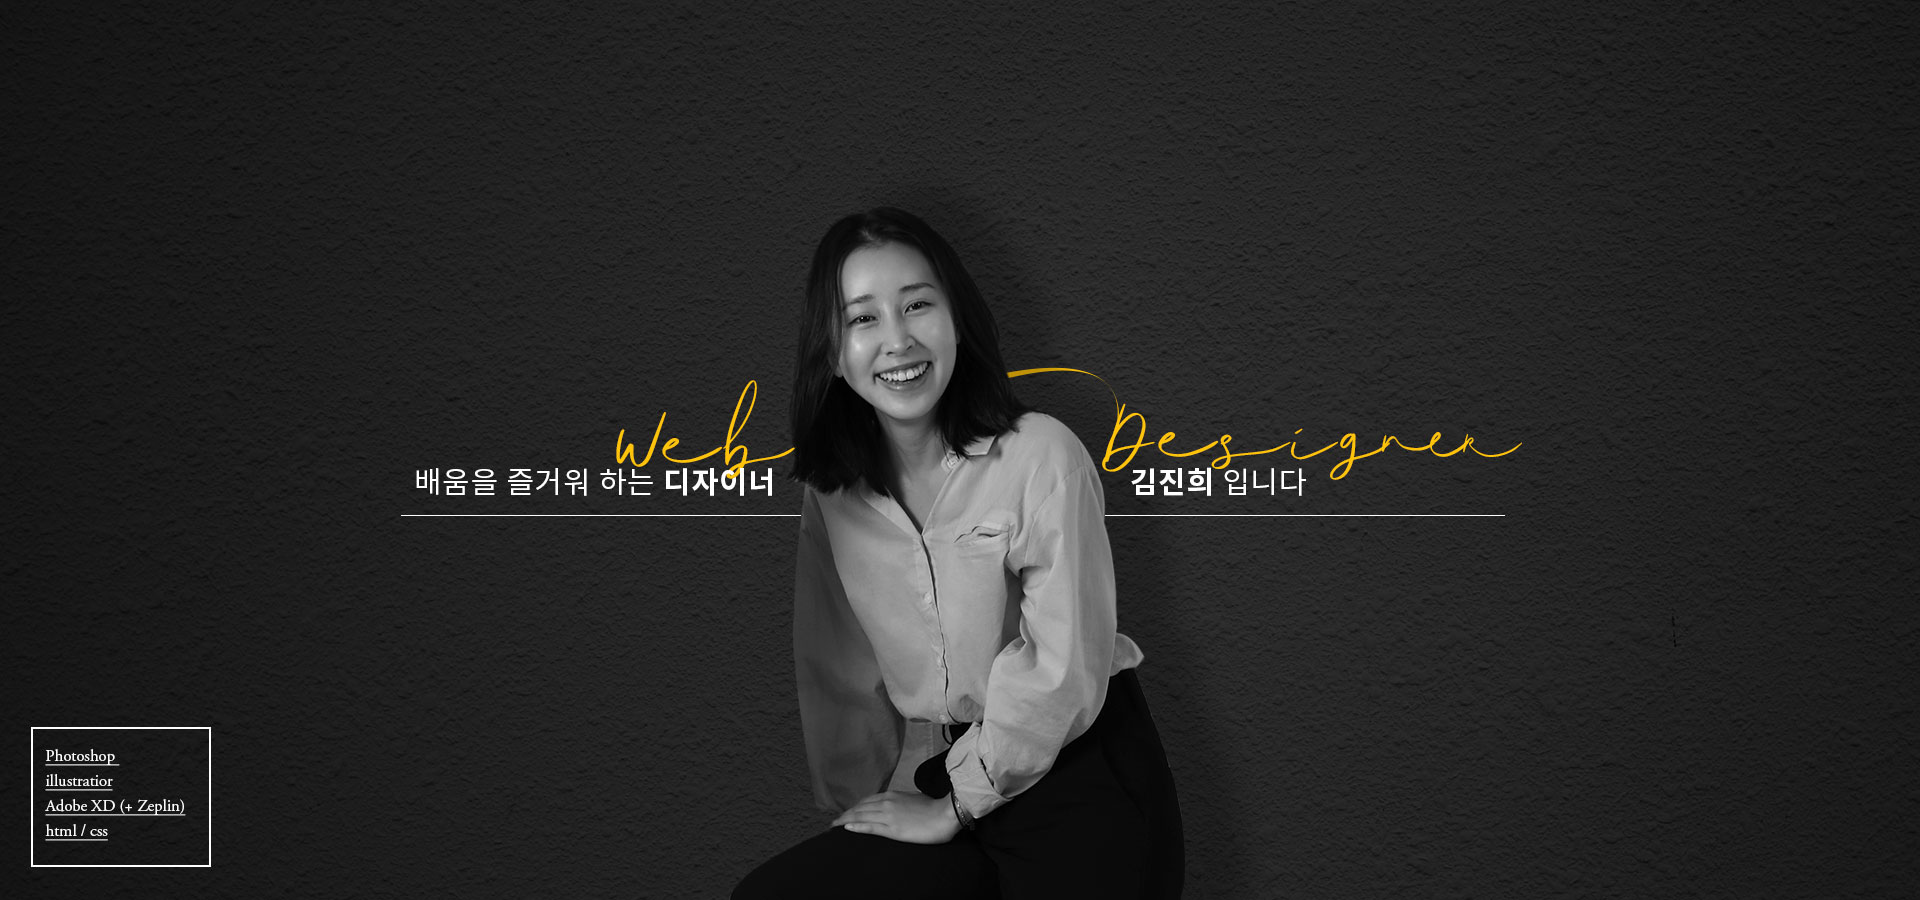
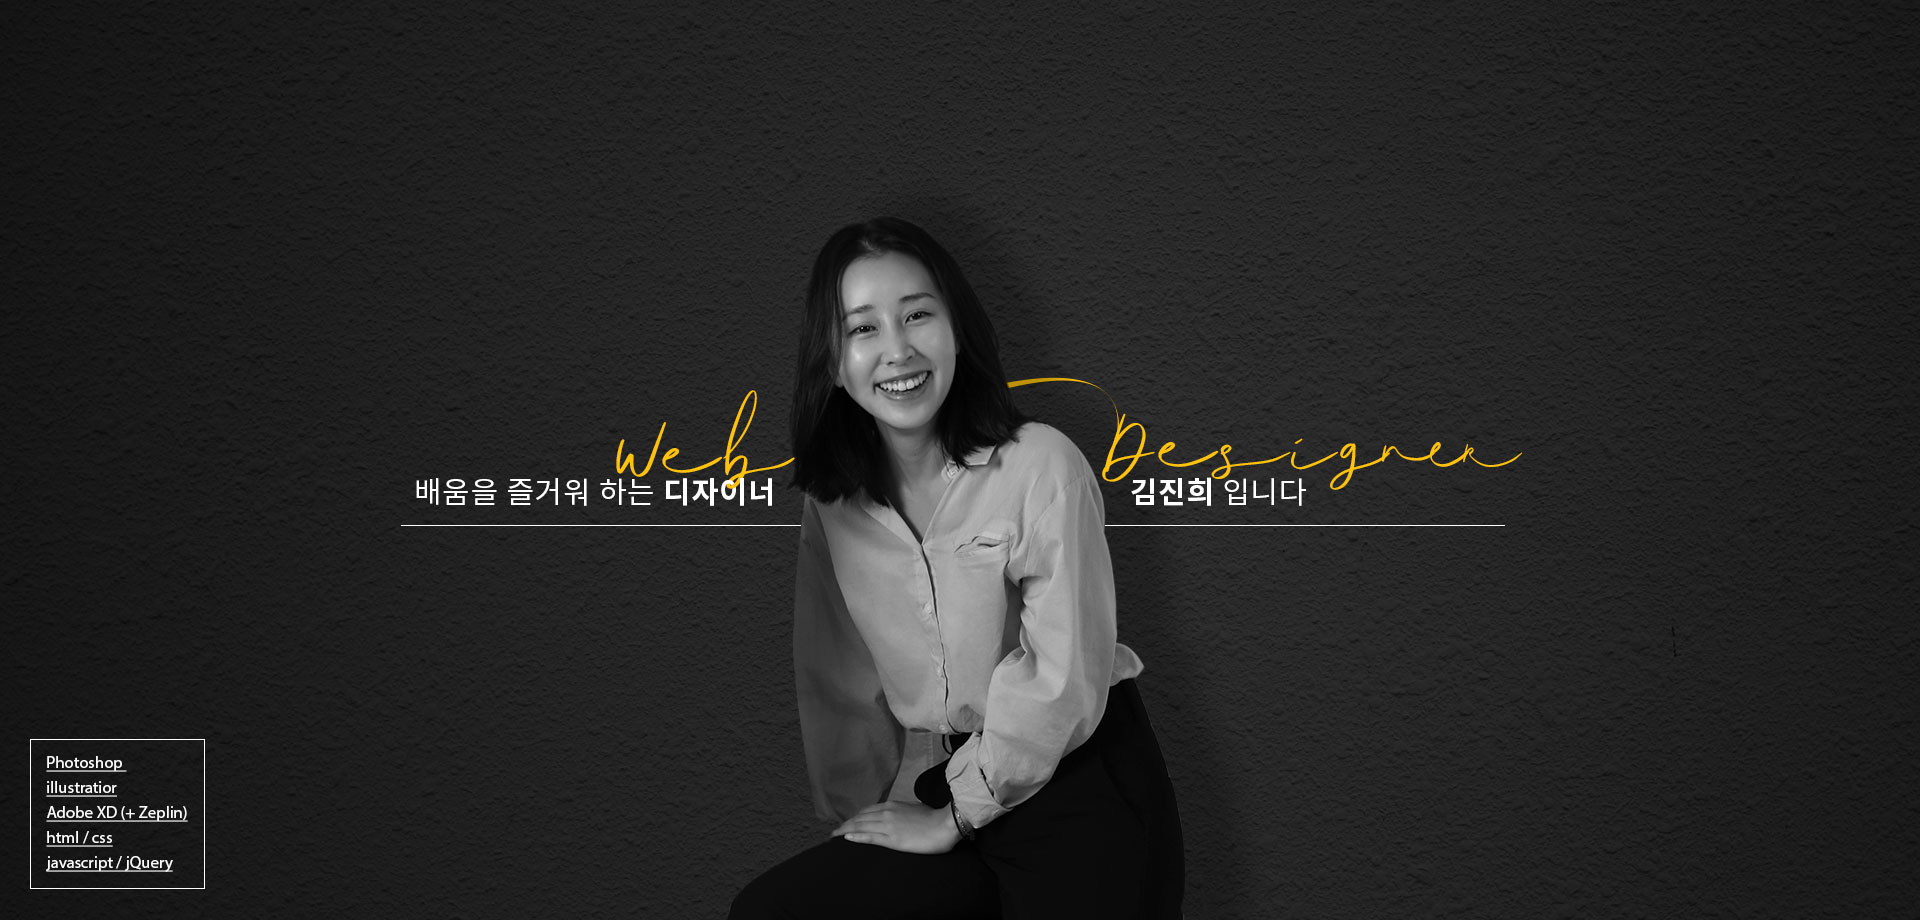
패럴럭스
Text Animation 효과 추가

diff --git a/css/style.css b/css/style.css
@@ -120,11 +120,11 @@ article .tit h3 { font-size: 15px; line-height: 1.6; font-weight: 500; }
 
 /* article_01 : Intro */
 #article_01 {
-	background-image: url('../img/profile.jpg');
-	background-repeat: no-repeat;
-    background-position: center;
+    height: 920px;
+    background: url('../img/profile.jpg') center no-repeat;
 }
-#article_01 .desc {
+#article_01 .container {}
+#article_01 .container .desc {
 	display: inline-block;
 	position: absolute;
 	top: 530px;
@@ -133,19 +133,17 @@ article .tit h3 { font-size: 15px; line-height: 1.6; font-weight: 500; }
 	line-height: 1.5;
     text-align: right;
 }
-#article_01 .desc span {
+#article_01 .container .desc span {
 	display: block;
 	margin-bottom: 5px;
 }
 
-
-
 /* article_02 : Why */
-#article_02 { /*border: 1px solid #fff;*/ }
-#article_02 .container { text-align: center; }
+#article_02 { /*border: 1px solid #fff;*/ max-height: 600px!important; }
+#article_02 .container { text-align: center; position: relative; }
 #article_02 .container .greeting {
-	margin-top: 283px;
-	margin-bottom: 40px;
+	padding-top: 283px;
+/*	margin-bottom: 40px;*/
  	font-size: 30px;
 	font-weight: 600; 
     font-family: 'jalnanregular' !important;
@@ -160,12 +158,12 @@ article .tit h3 { font-size: 15px; line-height: 1.6; font-weight: 500; }
 /*	right: 455px;*/
 }
 #article_02 .container .greeting h1 {
-	margin-top: 50px;
+	margin-top: 30px;
 	line-height: 1.5;
 }
 #article_02 .container .hashtag {
 	width: 900px;
-	margin: 0 auto;
+	margin: 30px auto 0;
 }
 #article_02 .container .hashtag span {
 	display: inline-block;
@@ -193,13 +191,15 @@ article .tit h3 { font-size: 15px; line-height: 1.6; font-weight: 500; }
 	background-repeat: no-repeat;
 }
 
-
-
 /* article_03 : 사이트리뉴얼 */
 #article_03 {}
 #article_03 .section_01 { position: relative; height: 600px; }
 #article_03 .section_01 .container {}
-#article_03 .section_01 .container .tit { margin-top: 270px; width: 500px; }
+#article_03 .section_01 .container .tit { 
+    margin-top: 270px; width: 500px; 
+    opacity: 0;
+    transition: 
+}
 #article_03 .section_01 .container .tit h2 { margin-top: 5px; }
 #article_03 .section_01 .container .tit h3 {}
 #article_03 .section_01 .container img.mockup {
@@ -219,7 +219,7 @@ article .tit h3 { font-size: 15px; line-height: 1.6; font-weight: 500; }
 #article_03 .section_02 .container img.forMobile { display: none; }
 #article_03 .section_02 .container .cont {
 	position: absolute;
-	top: 280px;
+	top: 320px;
 	right: 0;
 	width: 482px;
 }
@@ -236,17 +236,19 @@ article .tit h3 { font-size: 15px; line-height: 1.6; font-weight: 500; }
 #article_03 .section_02 .container .cont .feat h3 .img + .desc { padding-left: 20px; }
 
 
-
-
+    
 /* article_04 : 사이트운영*/
 #article_04 {}
 #article_04 .container {}
-#article_04 .container .tit { margin-bottom: 80px; }
+#article_04 .container .tit { padding-top: 80px; }
 #article_04 .container .tit h2 { margin-top: 130px;}
 #article_04 .container .tit h3 {}
-#article_04 .container .slider_wrap { width: 1560px; }
+#article_04 .container .slider_wrap { width: 1560px; position: relative; top: 95px; }
 #article_04 .container .slider {}
-#article_04 .container .slider .slick-dots { position: relative; margin-left: -50px; }
+#article_04 .container .slider .slick-dots { 
+/*    position: relative; margin-left: -50px; */
+    position: absolute; top: -65px; left: -715px;
+}
 #article_04 .container .slider .feat { padding-top: 20px; /* h2공간필요 */ }
 #article_04 .container .slider .feat .desc { position: relative; display: inline-block; margin-left: 50px; }
 #article_04 .container .slider .feat .desc h2 {
@@ -302,13 +304,16 @@ article .tit h3 { font-size: 15px; line-height: 1.6; font-weight: 500; }
 #article_06 .section { position: relative; height: 900px;}
 #article_06 .section .container {}
 #article_06 .section .container .tit { position: absolute; top: 250px;	right: 130px; width: 480px; }
+#article_06 .section .container .tit h2 span:after {content:'　';
+    width: 15px; height: 10px;
+    background: url("../img/quote.png") no-repeat no-repeat top left ;
+}
 #article_06 .section .container .tit h3 { line-height: 1.75;}
 #article_06 .section_01 .container .cont { position: relative; z-index: 10; }
 #article_06 .section_01 .container .cont .feat {
 	display: inline-block;
 	position: absolute;
 	width: 350px;
-/*	border: 1px solid orange;*/
 }
 #article_06 .section_01 .container .cont .feat_01 { top: 290px; left: 170px; }
 #article_06 .section_01 .container .cont .feat_02 { top: 430px; left: 580px; }
@@ -336,7 +341,6 @@ article .tit h3 { font-size: 15px; line-height: 1.6; font-weight: 500; }
 #article_07 .container .cont .feat { display: inline-block; }
 #article_07 .container .cont .feat h3 { font-weight: 700; margin-bottom: 15px; }
 #article_07 .container .cont .feat img { width: 280px;}
-
 
 
 
@@ -397,6 +401,41 @@ article .tit h3 { font-size: 15px; line-height: 1.6; font-weight: 500; }
 
 .clear {clear: both;}
 
+
+/* TEXT ANIMATION */
+#article_01 .desc span { transform: translate(-20%, 0); opacity: 0; }
+#article_01 .desc span:nth-child(1) {transition: all 1.0s ease-out;}
+#article_01 .desc span:nth-child(2) {transition: all 1.0s 0.5s ease-out;}
+#article_01 .desc span:nth-child(3) {transition: all 1.0s 0.8s ease-out;}
+#article_01.show .desc span { transform: none; opacity: 1; }
+#article_02 .container .hashtag { transform: translate(-30%, 0); opacity: 0; transition: all 0.5s ease-in; }
+#article_02.show .container .hashtag { transform: none; opacity: 1; }
+#article_03 .section_01 .container .tit { transform: translate(-20%, 0); opacity: 0; transition: all 0.5s ease-in; }
+#article_03.show .section_01 .container .tit { transform: none; opacity: 1; }
+#article_03 .section_02 .container .cont { transform: translate(20%, 0); opacity: 0; transition: all 0.5s ease-in; }
+#article_03.show .section_02 .container .cont { transform: none; opacity: 1; }
+
+#article_05 .section_01 .container .cont img { transform: translate(0, -20%); opacity: 0; }
+#article_05 .section_01 .container .cont img:nth-child(1) {transition: all 1.0s ease-out;}
+#article_05 .section_01 .container .cont img:nth-child(2) {transition: all 1.0s 0.2s ease-out;}
+#article_05 .section_01 .container .cont img:nth-child(3) {transition: all 1.0s 0.4s ease-out;}
+#article_05 .section_01 .container .cont img:nth-child(4) {transition: all 1.0s 0.6s ease-out;}
+#article_05 .section_01 .container .cont img:nth-child(5) {transition: all 1.0s 0.8s ease-out;}
+#article_05 .section_01 .container .cont img:nth-child(6) {transition: all 1.0s 1.0s ease-out;}
+#article_05 .section_01 .container .cont img:nth-child(7) {transition: all 1.0s 1.2s ease-out;}
+#article_05 .section_01 .container .cont img:nth-child(8) {transition: all 1.0s 1.4s ease-out;}
+#article_05.show .section_01 .container .cont img  { transform: none; opacity: 1; }
+
+#article_06 .section .container .tit { transform: translate(20%, 0); opacity: 0; transition: all 0.5s ease-in; }
+#article_06.show .section .container .tit { transform: none; opacity: 1; }
+#article_07 .container .cont .feat { transform: translate(0, -20%); opacity: 0; }
+#article_07 .container .cont .feat:nth-child(1) {transition: all 1.0s ease-out;}
+#article_07 .container .cont .feat:nth-child(2) {transition: all 1.0s 0.3s ease-out;}
+#article_07 .container .cont .feat:nth-child(3) {transition: all 1.0s 0.6s ease-out;}
+#article_07 .container .cont .feat:nth-child(4) {transition: all 1.0s 0.9s ease-out;}
+#article_07.show .container .cont .feat { transform: none; opacity: 1; }
+#article_08 .container .card { transform: scale(0);  opacity: 0; transition: all 0.3s ease-in; }
+#article_08.show .container .card { transform: scale(1); opacity: 1; }
 
 /* 반응형시작 */
 /* 화면 너비 769px ~ 

diff --git a/index.html b/index.html
@@ -70,7 +70,7 @@
 	<article id="article_01">
 	<div class="container">
 		<div class="desc">
-			<span># 당신이 찾아 헤매던 <em>웹 디자이너</em></span>
+			<span># 당신이 기다리던 <em>웹 디자이너</em></span>
 			<span># <em>능동적</em>인 자세</span>
 			<span># <em>공감</em>하는 커뮤니케이션</span>
 		</div>
@@ -111,7 +111,7 @@
 			    <h2><span>사이트리뉴얼</span></h2><br>
 			    <h2><span>&amp; 플랫폼 이전 프로젝트</span></h2>
 				<h3>
-				    독립몰에서 카페24 솔루션으로 플랫폼을 이전하는 프로젝트의 제안부터 개발사 선정, 업체 미팅, 스케쥴링, 쇼핑몰 DB이전, 디자인 감독 등을 수행하는 프로젝트 매니저로 참여.
+				    독립몰에서 카페24 솔루션으로 플랫폼을 이전하는 프로젝트의 제안부터 개발사 선정, 스케쥴 관리, 디자인 감리, 쇼핑몰 DB이전 등을 수행하며 프로젝트 매니저로 참여.
 				</h3>
 			</div>
 			<img class="mockup" src="img/laptop.png" alt="laptop">
@@ -215,7 +215,6 @@
 	<!-- //#article_04 -->
 	
 	
-	
 	<!-- #article_05 : 프로모션 디자인 -->
 	<article id="article_05">
 		<section class="section_01">
@@ -268,7 +267,7 @@
 					<img src="img/details_02.png" alt="상세페이지">
 					<div class="desc desc_03">상품 사진 촬영<br>가이드라인 제작으로<br>일관성 있는 상품 컷</div>
 					<div class="desc desc_04">상품의 특징을<br>효과적으로<br>보여주는 와이드 비율의<br>디테일 컷</div>
-					<div class="desc desc_05">사이즈차트 제작<br>자동화 프로그램<br>개발 프로젝트</div>
+					<div class="desc desc_05">사이즈차트 제작<br>자동화 프로그램<br>개발 참여</div>
 				</div>
 			</div>
 		</div><!-- //container -->
@@ -392,15 +391,14 @@
 	        nav.eq(5).addClass("active");	        //첫번째 nav에 "active" 클래스를 추가한다
 		}
 		if (wScroll >= cont.eq(6).offset().top -60 ){   	//현재 스크롤위치가 첫번째 cont의 오프셋위치보다 크거나 같으면
-	        nav.removeClass("active");		        //nav의 "active" 클래스를 지우고
-	        nav.eq(6).addClass("active");	        //첫번째 nav에 "active" 클래스를 추가한다
+	        nav.removeClass("active");		                //nav의 "active" 클래스를 지우고
+	        nav.eq(6).addClass("active");	               //첫번째 nav에 "active" 클래스를 추가한다
 		}
 		if (wScroll >= cont.eq(7).offset().top -60 ){   	//현재 스크롤위치가 첫번째 cont의 오프셋위치보다 크거나 같으면
-	        nav.removeClass("active");		        //nav의 "active" 클래스를 지우고
-	        nav.eq(7).addClass("active");	        //첫번째 nav에 "active" 클래스를 추가한다
+	        nav.removeClass("active");		                //nav의 "active" 클래스를 지우고
+	        nav.eq(7).addClass("active");	                 //첫번째 nav에 "active" 클래스를 추가한다
 		}
 	
-		
 		
 		// article02 지날때 부터 gnb보임
 		if ( wScroll > cont.eq(2).offset().top ) {
@@ -408,9 +406,34 @@
 			
 		} else {
 			$("#gnb").removeClass("fixed");
-			
 		}
 		
+        
+        // Text Animation
+        if(wScroll >= cont.eq(0).offset().top - $(window).height()/3 ){      //현재 스크롤 위치가 첫번째 cont의 오프셋위치보다 크거나 같으면
+            cont.eq(0).addClass("show");                                     //.desc span에 "show"클래스를 추가한다
+        }
+        if(wScroll >= cont.eq(1).offset().top - $(window).height()/3 ){  
+            cont.eq(1).addClass("show");               
+        }
+        if(wScroll >= cont.eq(2).offset().top - $(window).height()/3 ){         
+            cont.eq(2).addClass("show");
+        }
+        if(wScroll >= cont.eq(3).offset().top - $(window).height()/3 ){         
+            cont.eq(3).addClass("show");
+        }
+        if(wScroll >= cont.eq(4).offset().top - $(window).height()/3 ){         
+            cont.eq(4).addClass("show");
+        }
+        if(wScroll >= cont.eq(5).offset().top - $(window).height()/3 ){         
+            cont.eq(5).addClass("show");
+        }
+        if(wScroll >= cont.eq(6).offset().top - $(window).height()/3 ){         
+            cont.eq(6).addClass("show");
+        }
+        if(wScroll >= cont.eq(7).offset().top - $(window).height()/3 ){         
+            cont.eq(7).addClass("show");
+        }
 		
 	});
 	

diff --git a/css/mobile.css b/css/mobile.css
@@ -48,21 +48,23 @@ h3 {
 /* article_01 : Intro */
 #article_01 {
 	width: 100%;
-	border: 3px solid #000;
 	background-image: url('../img/profile_m.jpg');
     background-position: top center;
 	background-size: cover;
-	padding-bottom: 177.8%;
+	padding-bottom: 178%;
+    display: table;
 }
-#article_01 .desc {	display: none; }
-#article_01 .desc span {}
+#article_01 .container {}
+#article_01 .container .desc {display: none;}
+#article_01 .container .desc span {}
 
 	
 /* article_02 : Why */
 #article_02 { padding: 150px 0; }
 #article_02 .container {}
 #article_02 .container .greeting {
-	margin: 0 auto;
+	margin: 0 aut;
+    padding-top: 0;
 	font-size: 20px;
 }
 #article_02 .container .greeting h2 { font-size: 15px; display: inline-block; }
@@ -116,7 +118,7 @@ h3 {
     position: absolute;
 	width: 45%;
 	top: auto;
-	bottom: 30px;
+	bottom: -30px;
 	left: auto;
     right: 15px;
 }
